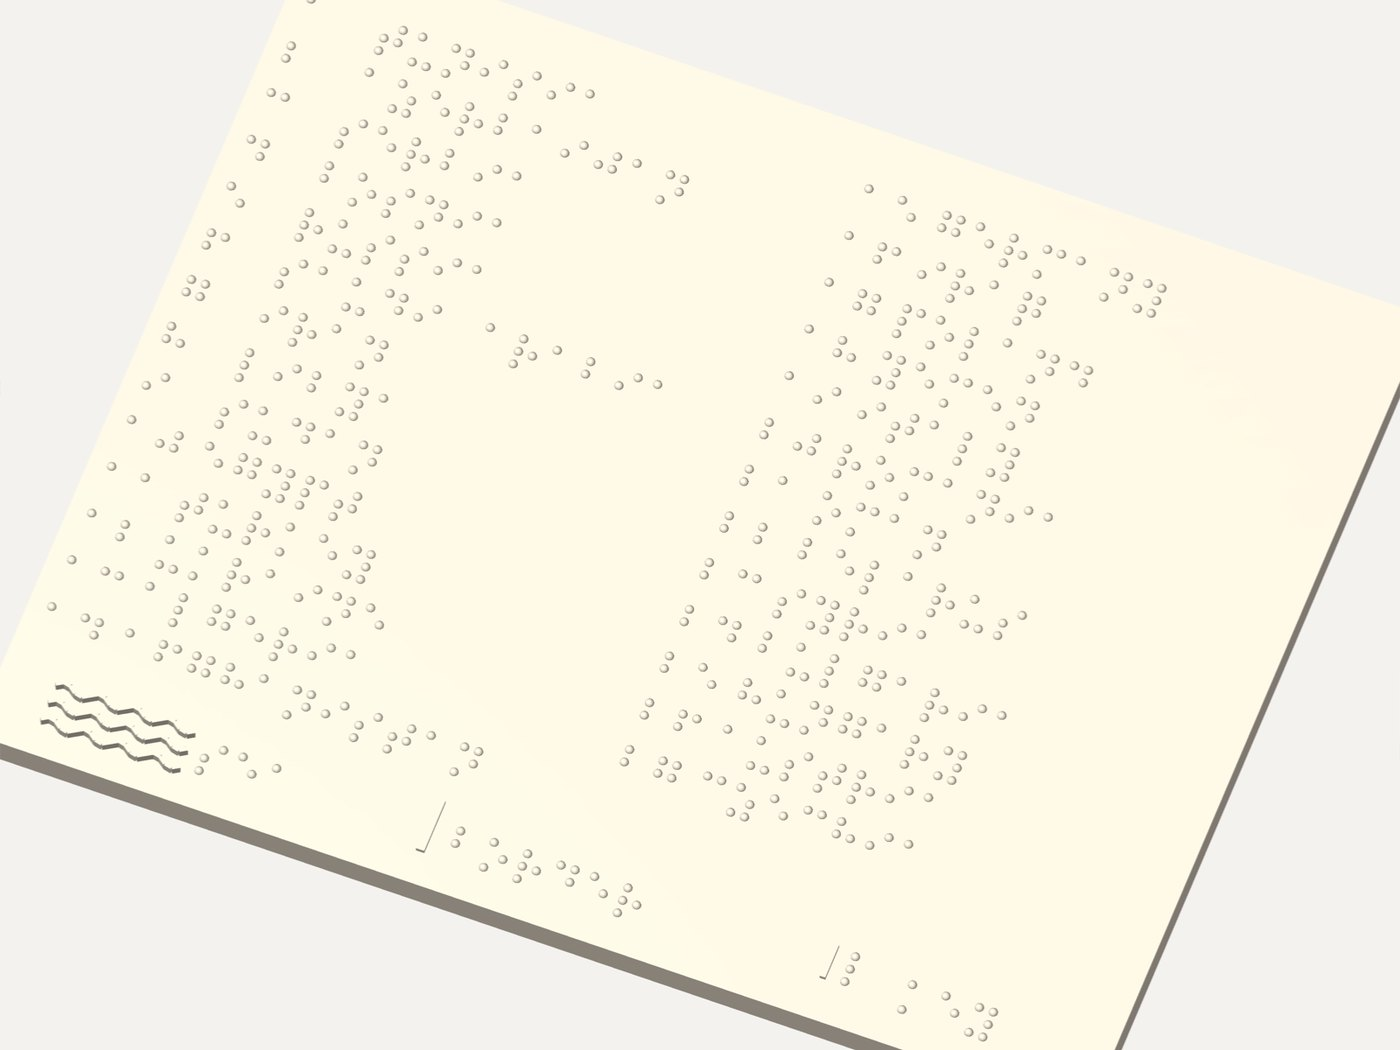
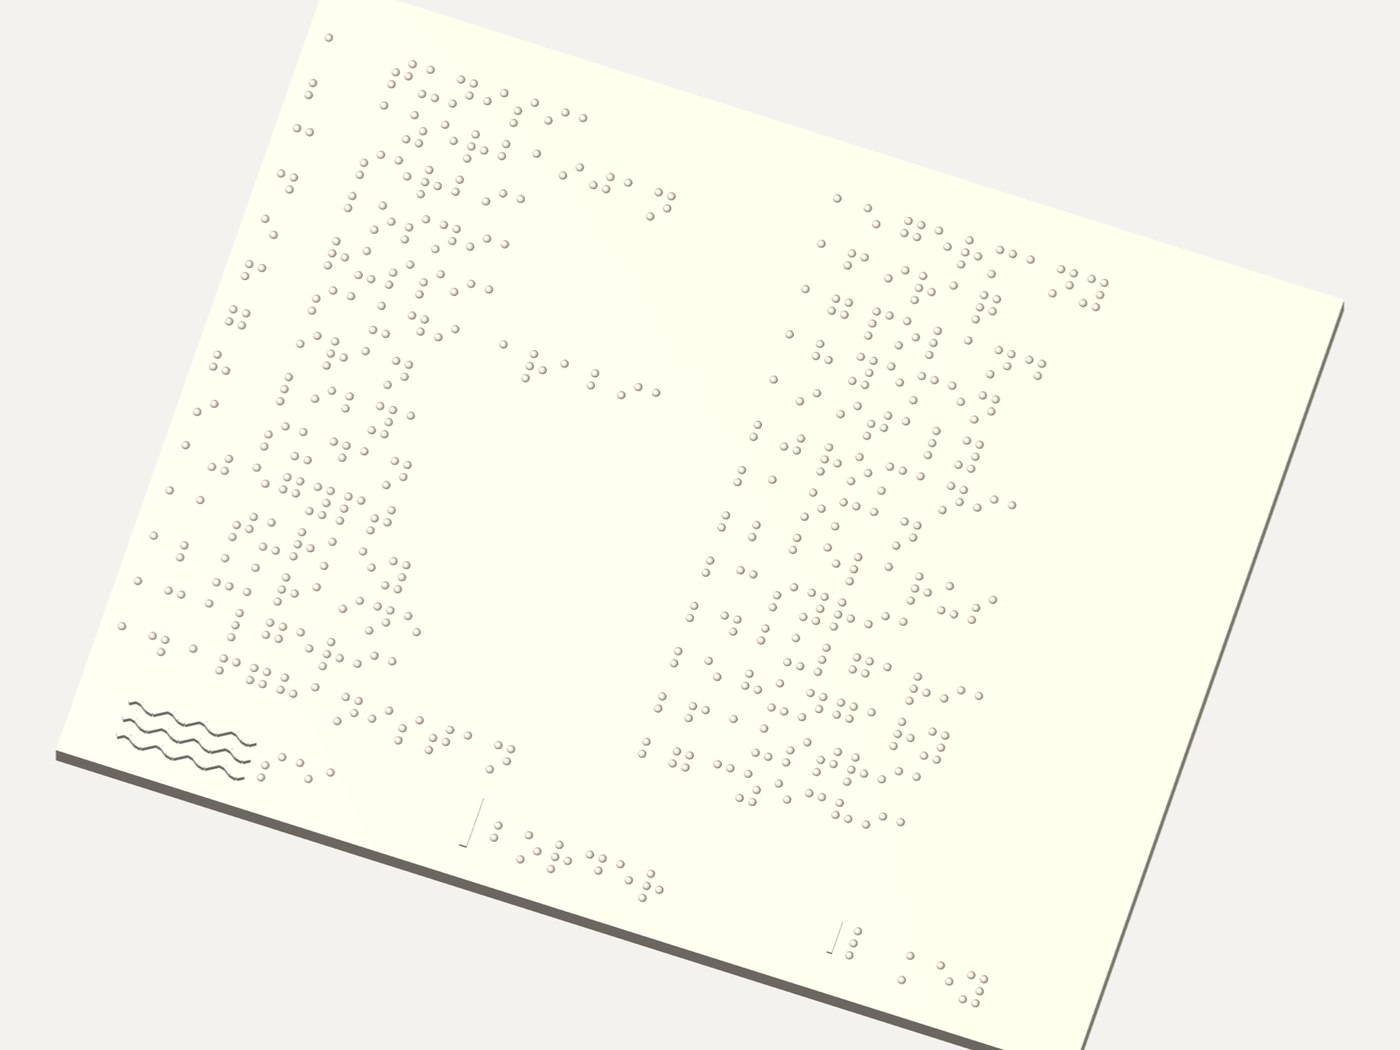
Make the current-files evidence legible and reproducible
The pair that carries the whole "photographs are the first print, renders are
the files now" argument was the weakest thing on the page: the render was shot
too far out for a braille label to read as braille. Re-framed it at the scale
where the anchor ridge and the domed dots are visible.

- Replace the dovetail render with the braille alphabet card. The joint shot
  read as two blank slabs whatever the camera; the alphabet card is a real
  product piece and it is what the two of them actually learn from. The tile
  size moved into the assembly row of the table so nothing is lost.
- Add core/render_site_assets.py: every camera the site publishes, in the repo,
  so the renders can be rebuilt after a geometry change instead of being
  re-derived by hand.
- Give both price cards a mailto CTA at the point of decision, pinned to a
  common baseline. Ready-made asks braille language / copies / destination,
  custom keeps the three-question intake.
- Footer states no cookies, no tracking, no third-party requests, which is
  literally true and worth saying to an institutional buyer.
- Pure-CSS scroll shadow on the feature table: below 28rem it scrolls sideways
  and a hard-cut column with no scrollbar reads as broken.

Checked: no em dashes, headings without level skips, alt text on every image,
contrast at or above 4.5:1 for every text pair in both themes, both language
versions element-for-element identical, no page-level horizontal scroll at
320 px.

diff --git a/site/sr/index.html b/site/sr/index.html
@@ -189,7 +189,7 @@
                alt="Prikaz istog dela karte iz današnjih fajlova: svaka država sada nosi oznaku na Brajevom pismu, kratak uspravan sidreni greben pa ćelije sa kupolastim tačkama, umesto štampane cifre.">
           <figcaption>
             <span class="tag tag-now">Današnji fajlovi</span>
-            Iste države danas: sidreni greben, pa broj na Brajevom pismu.
+            Isti deo karte danas: sidreni greben, pa broj na Brajevom pismu.
           </figcaption>
         </figure>
       </div>
@@ -229,7 +229,7 @@
             <tr><td>Mora</td><td>Rebrasti talasi visine 2 mm, jasno različiti od ravnog kopna</td></tr>
             <tr><td>Oznake država</td><td>Brojevi na Brajevom pismu, povezani sa posebnom karticom legende</td></tr>
             <tr><td>Orijentacija</td><td>Sidreni greben levo od svake oznake označava njenu levu ivicu i redove</td></tr>
-            <tr><td>Sklapanje</td><td>Četiri ploče sa spojem lastin rep: spuštaju se odozgo i ne mogu da iskliznu</td></tr>
+            <tr><td>Sklapanje</td><td>Četiri ploče 20 × 16 cm, spoj lastin rep: spuštaju se odozgo i ne mogu da iskliznu</td></tr>
           </tbody>
         </table>
       </div>
@@ -246,9 +246,9 @@
           <figcaption>Četiri stepenika terena, svaki tačno pet odštampanih slojeva visok, između dva rebrasta mora.</figcaption>
         </figure>
         <figure>
-          <img src="/assets/render_joint.jpg" width="1400" height="1050" loading="lazy"
-               alt="Prikaz dve ploče karte gledane odozdo, sa proširenim jezičkom u obliku lastinog repa na jednoj i odgovarajućim ležištem urezanim u ivicu druge.">
-          <figcaption>Spoj, gledan odozdo: spustite ploču na susednu i ne može da isklizne.</figcaption>
+          <img src="/assets/render_alphabet.jpg" width="1400" height="1050" loading="lazy"
+               alt="Prikaz kartice azbuke na Brajevom pismu: slova od A do Z u kolonama, svako izdignuto štampano slovo praćeno istim slovom kao Brajeva ćelija sa kupolastim tačkama.">
+          <figcaption>Kartica azbuke nosi svako slovo dvaput, štampano i na Brajevom pismu, da videći nastavnik i slep čitalac rade sa iste kartice.</figcaption>
         </figure>
         <figure>
           <img src="/assets/render_legend.jpg" width="1400" height="1050" loading="lazy"
@@ -346,6 +346,7 @@
             kartica azbuke na Brajevom pismu, odštampano i poslato. Dostupno na engleskom ili
             srpskom Brajevom pismu. Poštarina se obračunava posebno.
           </p>
+          <p class="price-cta"><a href="mailto:glebmaksimov@worldbytouch.com?subject=Gotov%20komplet%20taktilne%20karte&amp;body=1.%20Englesko%20ili%20srpsko%20Brajevo%20pismo%3F%0A%0A2.%20Koliko%20primeraka%20vam%20treba%3F%0A%0A3.%20U%20koju%20zemlju%20se%20%C5%A1alje%3F%0A%0A">Naručite gotov komplet</a></p>
         </div>
         <div class="price feature">
           <span class="amount">Cena po projektu</span>
@@ -355,6 +356,7 @@
             površine, nivoa detalja i broja primeraka. Recite šta vam treba i vraća se fiksan
             iznos, sa rokom.
           </p>
+          <p class="price-cta"><a href="mailto:glebmaksimov@worldbytouch.com?subject=Upit%20za%20taktilnu%20kartu&amp;body=1.%20Koji%20region%2C%20grad%20ili%20oblast%20karta%20treba%20da%20obuhvati%3F%0A%0A2.%20Ko%20%C4%87e%20je%20koristiti%20%E2%80%93%20osoba%2C%20%C5%A1kola%2C%20muzej%3F%0A%0A3.%20Koliko%20primeraka%20vam%20treba%3F%0A%0A">Zatražite ponudu</a></p>
         </div>
       </div>
     </div>
@@ -472,6 +474,7 @@
       <li><a href="/" lang="en" hreflang="en">English</a></li>
     </ul>
     <p>Taktilne karte projektuje i štampa Gleb Maksimov. Napravljeno sa slepim čitaocem i testirano sa njim.</p>
+    <p class="fine">Bez kolačića, bez praćenja, ništa se ne učitava sa drugog servera.</p>
   </div>
 </footer>
 

diff --git a/site/index.html b/site/index.html
@@ -191,7 +191,7 @@
                alt="Render of the same corner of the map from the current files: each country now carries a braille number label, a short upright anchor ridge followed by braille cells of domed dots, instead of a printed digit.">
           <figcaption>
             <span class="tag tag-now">Current files</span>
-            The same countries today: an anchor ridge, then the number in braille.
+            The same corner of the map today: an anchor ridge, then the number in braille.
           </figcaption>
         </figure>
       </div>
@@ -230,7 +230,7 @@
             <tr><td>Seas</td><td>Ribbed waves 2 mm high, unmistakable against flat land</td></tr>
             <tr><td>Country labels</td><td>Braille numbers, keyed to a separate braille legend card</td></tr>
             <tr><td>Orientation</td><td>An anchor ridge left of every label marks its left edge and its rows</td></tr>
-            <tr><td>Assembly</td><td>Four tiles with dovetail joints: they drop in from above and cannot slide apart</td></tr>
+            <tr><td>Assembly</td><td>Four 20 × 16 cm tiles, dovetailed: they drop in from above and cannot slide apart</td></tr>
           </tbody>
         </table>
       </div>
@@ -348,6 +348,7 @@
             and the braille alphabet card, printed and shipped. Available in English or
             Serbian braille. Shipping quoted separately.
           </p>
+          <p class="price-cta"><a href="mailto:glebmaksimov@worldbytouch.com?subject=Ready-made%20tactile%20map%20set&amp;body=1.%20English%20or%20Serbian%20braille%3F%0A%0A2.%20How%20many%20copies%20do%20you%20need%3F%0A%0A3.%20Which%20country%20should%20it%20ship%20to%3F%0A%0A">Order the ready-made set</a></p>
         </div>
         <div class="price feature">
           <span class="amount">Quoted per project</span>
@@ -357,6 +358,7 @@
             area, the level of detail and the number of copies. Tell me what you need and a
             fixed figure comes back, with a timeline.
           </p>
+          <p class="price-cta"><a href="mailto:glebmaksimov@worldbytouch.com?subject=Tactile%20map%20enquiry&amp;body=1.%20Which%20region%2C%20city%20or%20area%20should%20the%20map%20cover%3F%0A%0A2.%20Who%20will%20use%20it%20%E2%80%93%20a%20person%2C%20a%20school%2C%20a%20museum%3F%0A%0A3.%20How%20many%20copies%20do%20you%20need%3F%0A%0A">Ask for a quote</a></p>
         </div>
       </div>
     </div>
@@ -475,6 +477,7 @@
       <li><a href="/sr/" lang="sr" hreflang="sr">Srpski</a></li>
     </ul>
     <p>Tactile maps designed and printed by Gleb Maximov. Made with, and tested by, a blind reader.</p>
+    <p class="fine">No cookies, no tracking, nothing loaded from another server.</p>
   </div>
 </footer>
 

diff --git a/site/style.css b/site/style.css
@@ -10,6 +10,7 @@
   --accent-hover: #0e3c2f;
   --accent-ink: #ffffff;
   --focus: #b8460e;
+  --scroll-shadow: rgba(29, 33, 36, .34);
   --shadow: 0 1px 2px rgba(29, 33, 36, .06), 0 8px 24px rgba(29, 33, 36, .08);
   --shadow-lg: 0 2px 4px rgba(29, 33, 36, .08), 0 18px 48px rgba(29, 33, 36, .16);
   --max: 68rem;
@@ -30,6 +31,7 @@
     --accent-hover: #8fe0c3;
     --accent-ink: #0c2019;
     --focus: #ffb26b;
+    --scroll-shadow: rgba(0, 0, 0, .72);
     --shadow: 0 1px 2px rgba(0, 0, 0, .4), 0 8px 24px rgba(0, 0, 0, .35);
     --shadow-lg: 0 2px 4px rgba(0, 0, 0, .5), 0 18px 48px rgba(0, 0, 0, .5);
   }
@@ -403,12 +405,28 @@ ol.steps span { font-family: var(--sans); color: var(--ink-soft); font-size: .98
 .price h3 { margin: .65rem 0 .75rem; font-size: 1.25rem; }
 .price p { font-family: var(--sans); font-size: .9875rem; line-height: 1.6; color: var(--ink-soft); }
 .price p:last-child { margin-bottom: 0; }
+/* margin-top:auto pins both cards' links to the same baseline, whatever the copy above */
+.price .price-cta { margin: auto 0 0; padding-top: 1.15rem; font-size: 1rem; font-weight: 650; }
 
 /* ---------- table ---------- */
 
+/* Below ~28rem the table scrolls sideways, and a cut-off column with no visible
+   scrollbar reads as broken. These four backgrounds are the classic pure-CSS
+   scroll shadow: the `local` covers ride with the content, the `scroll` shadows
+   stay put, so a shadow shows only on the edge that still has table behind it. */
 .table-scroll {
   overflow-x: auto; border-radius: 10px; border: 1px solid var(--line);
-  background: var(--surface); box-shadow: var(--shadow);
+  box-shadow: var(--shadow);
+  background-color: var(--surface);
+  background-image:
+    linear-gradient(to right, var(--surface) 40%, transparent),
+    linear-gradient(to left, var(--surface) 40%, transparent),
+    radial-gradient(farthest-side at 0 50%, var(--scroll-shadow), transparent),
+    radial-gradient(farthest-side at 100% 50%, var(--scroll-shadow), transparent);
+  background-position: 0 0, 100% 0, 0 0, 100% 0;
+  background-size: 2.5rem 100%, 2.5rem 100%, 1.1rem 100%, 1.1rem 100%;
+  background-repeat: no-repeat;
+  background-attachment: local, local, scroll, scroll;
 }
 .tactile { width: 100%; border-collapse: collapse; font-size: 1rem; min-width: 28rem; }
 .tactile th, .tactile td { text-align: left; padding: .85rem 1.15rem; border-bottom: 1px solid var(--line); }
@@ -448,3 +466,5 @@ footer.site ul {
   display: flex; flex-wrap: wrap; gap: 1.5rem;
 }
 footer.site p { max-width: 40em; margin: 0; }
+footer.site p + p { margin-top: .6rem; }
+.fine { font-size: .875rem; color: var(--slate); }

diff --git a/core/render_site_assets.py b/core/render_site_assets.py
@@ -1,0 +1,154 @@
+#!/usr/bin/env python3
+"""
+Build the render half of `site/assets/` from the current print-ready STLs.
+
+The site makes one claim over and over: the photographs are the FIRST PRINT, the
+renders are the files as they stand NOW. That only stays true if the renders are
+re-made whenever the geometry changes, so every camera the site uses lives here
+instead of in a throwaway script.
+
+    python core/render_site_assets.py [printready_dir] [site_assets_dir]
+
+Needs a display (X11) or vtk-osmesa; `xvfb-run -a` works headless.
+
+The photographs in `site/assets/` are NOT produced here. They are hand-picked
+crops of `data/photoes/` (gitignored, and two of them are pictures of people):
+
+    hands_map.jpg           photo_1_2026-07-21   hero, hands on the assembled map
+    reader.jpg              photo_2_2026-07-21   the friend reading it
+    set.jpg                 photo_8_2026-07-21   all six printed pieces
+    author.jpg              photo_13_2026-08-05  Gleb beside the wall-mounted map
+    first_print_numbers.jpg photo_12_2026-08-05  crop (235, 200)-(765, 597),
+                                                 the raised Arabic numerals
+"""
+import sys
+from pathlib import Path
+
+import numpy as np
+from PIL import Image
+
+import render_previews as R
+from constants import CARD_WIDTH_MM as CW, CARD_HEIGHT_MM as CH
+
+SHOT_SIZE = (1600, 1200)
+BG = (244, 242, 238)          # render_previews.BG, for the content-crop probe
+
+
+def _shot(meshes, center, direction, half_h, size=SHOT_SIZE):
+    """Orthographic frame: `half_h` IS the visible half-height in mm."""
+    p = R._plotter(size)
+    for m in meshes:
+        R._add(p, m)
+    R._light(p)
+    d = np.asarray(direction, float)
+    d /= np.linalg.norm(d)
+    c = np.asarray(center, float)
+    p.enable_parallel_projection()
+    p.camera.focal_point = tuple(c)
+    p.camera.position = tuple(c + d * 500.0)
+    p.camera.up = (0, 0, 1)
+    p.camera.parallel_scale = half_h
+    img = Image.fromarray(p.screenshot(return_img=True))
+    p.close()
+    return img
+
+
+def _content_box(im, tol=7):
+    a = np.asarray(im.convert("RGB")).astype(int)
+    ys, xs = np.where(np.abs(a - np.array(BG)).max(axis=2) > tol)
+    if len(xs) == 0:
+        return (0, 0, im.width, im.height)
+    return (xs.min(), ys.min(), xs.max() + 1, ys.max() + 1)
+
+
+def _frame_43(box, w, h, pad=0.04):
+    """Smallest 4:3 window inside (w, h) that holds `box` plus `pad` margin."""
+    x0, y0, x1, y1 = box
+    pw, ph = (x1 - x0) * pad, (y1 - y0) * pad
+    x0, y0, x1, y1 = x0 - pw, y0 - ph, x1 + pw, y1 + ph
+    cw, ch = max(x1 - x0, (y1 - y0) * 4 / 3), max(y1 - y0, (x1 - x0) * 3 / 4)
+    cw, ch = min(cw, w), min(ch, h)
+    cw, ch = min(cw, ch * 4 / 3), min(ch, cw * 3 / 4)
+    cx = min(max((x0 + x1) / 2, cw / 2), w - cw / 2)
+    cy = min(max((y0 + y1) / 2, ch / 2), h - ch / 2)
+    return tuple(round(v) for v in (cx - cw / 2, cy - ch / 2, cx + cw / 2, cy + ch / 2))
+
+
+def _save(im, dest, size, quality=86):
+    im.convert("RGB").resize(size, Image.LANCZOS).save(
+        dest, "JPEG", quality=quality, optimize=True, progressive=True)
+    print(f"  {dest.name:24s} {size[0]}x{size[1]}  {dest.stat().st_size // 1024} KB")
+
+
+def build(src, out, verbose=True):
+    src, out = Path(src), Path(out)
+    out.mkdir(parents=True, exist_ok=True)
+    parts = R.assembled(src)
+
+    def clipped(box):
+        ms = [m.clip_box(box, invert=False) for m in parts]
+        return [m for m in ms if m.n_points > 0]
+
+    # 1. render_labels.jpg — the right-hand half of the "first print vs current
+    #    files" pair. Central Europe and the Balkans, the same corner the
+    #    first-print photograph shows, at a scale where a braille number label
+    #    reads AS braille: anchor ridge, then cells of domed dots. The frame sits
+    #    wholly inside the plate (cy below 253 keeps the north edge out of shot).
+    _save(_shot(clipped((20, 240, 175, 320, -7, 8)),
+                (120, 250, 1.0), (0.06, -0.38, 0.92), 52.0),
+          out / "render_labels.jpg", (1200, 900))
+
+    # 2. render_terrain.jpg — Black Sea, Caucasus, Caspian: stepped plateaus
+    #    between two ribbed seas, at a raking angle so every step casts an edge.
+    _save(_shot(clipped((188, 292, 188, 266, -7, 8)),
+                (240, 227, 1.0), (0.12, -0.58, 0.81), 43.0),
+          out / "render_terrain.jpg", (1400, 1050))
+
+    # 3. render_macro.jpg — one label at dome scale, the evidence behind "domes,
+    #    not points". The label is found from the geometry (see
+    #    render_previews.find_braille_cluster); hand-picked coordinates missed.
+    for idx in (3, 1, 2, 4):
+        card = R.load(src, f"card_{idx}.stl")
+        spot = R.find_braille_cluster(card)
+        if spot is not None:
+            break
+    if spot is None:
+        raise SystemExit("no braille cluster found — did the label geometry change?")
+    cx, cy = spot
+    if verbose:
+        print(f"  (braille label found at {cx:.0f}, {cy:.0f} mm)")
+    region = card.clip_box((cx - 14, cx + 14, cy - 11, cy + 11, -7, 8), invert=False)
+    macro = _shot([region], (cx, cy, 1.2), (0.22, -0.62, 0.75), 8.0)
+    _save(macro.crop((40, 285, 1180, 1140)), out / "render_macro.jpg", (1400, 1050))
+
+    # 4/5. the two reference cards, tilted just enough to shade the dots
+    for fname, stl in (("render_legend.jpg", "card_legend.stl"),
+                       ("render_alphabet.jpg", "card_alphabet.stl")):
+        im = _shot([R.load(src, stl)], (CW / 2, CH / 2, 0), (0.10, -0.30, 0.95), 98.0)
+        _save(im.crop(_frame_43(_content_box(im), im.width, im.height)),
+              out / fname, (1400, 1050), quality=87)
+
+    # 6. render_files.jpg — everything in the download, laid out in two rows
+    def eight():
+        names = ["card_1.stl", "card_2.stl", "card_3.stl", "card_4.stl",
+                 "card_legend.stl", "card_legend_sr.stl",
+                 "card_alphabet.stl", "card_alphabet_sr.stl"]
+        ms = []
+        for i, n in enumerate(names):
+            m = R.load(src, n)
+            m.translate(((i % 4) * (CW + 18), -(i // 4) * (CH + 18), 0), inplace=True)
+            ms.append(m)
+        return ms
+    im = _shot(eight(),
+               (3 * (CW + 18) / 2 + CW / 2, -(CH + 18) / 2 + CH / 2, 0),
+               (0.14, -0.46, 0.88), 335.0)
+    _save(im.crop(_frame_43(_content_box(im), im.width, im.height)),
+          out / "render_files.jpg", (1400, 1050))
+
+    if verbose:
+        print(f"-> 6 site renders in {out}/")
+
+
+if __name__ == "__main__":
+    build(sys.argv[1] if len(sys.argv) > 1 else "data/output/printready",
+          sys.argv[2] if len(sys.argv) > 2 else "site/assets")

diff --git a/SITE.md b/SITE.md
@@ -7,7 +7,7 @@ site/index.html      English
 site/sr/index.html   Serbian (Gajica latin)
 site/style.css       shared, light + dark
 site/favicon.svg
-site/assets/         photos and renders, built from data/ by core/render_previews.py
+site/assets/         photos (hand-picked crops) and renders (core/render_site_assets.py)
 content/             source material for the copy, not published
 ```
 
@@ -42,9 +42,16 @@ python3 -m http.server 8080 --directory site
   capital-city bumps. Every figure is marked with a `First print` or `Current files` tag.
   Keep that distinction: it is what makes the page credible. Re-tag or re-shoot whenever
   either side changes.
-- Renders come from `blind_map/core/render_previews.py` run against the current
-  `data/output/printready/*.stl`. Re-render after any geometry change, or the site starts
-  describing files that no longer exist.
+- Renders come from `core/render_site_assets.py`, run against the current
+  `data/output/printready/*.stl`:
+
+  ```bash
+  xvfb-run -a .venv/bin/python core/render_site_assets.py
+  ```
+
+  Every camera the site uses lives in that script. Re-render after any geometry change, or
+  the page starts describing files that no longer exist. The photographs are not produced
+  by it; their sources and crops are listed in its docstring.
 - The `27 countries labelled in braille` figure comes from the build log of
   `create_country_labels_mesh`. Re-check it after changing the map bounds, the country table
   or the label clearance ladder.
@@ -52,11 +59,17 @@ python3 -m http.server 8080 --directory site
   element-for-element the same; keep it that way so a change in one is easy to mirror.
 - Short dashes only (`–`). No em dashes anywhere, including `<title>`, Open Graph tags and the
   text inside the `mailto:` links.
-- The hero video goes into the `.video-slot` block on both pages. Keep the captions track and
-  print a text transcript next to the player: this site is read by the people it is about.
-- Both `mailto:` links carry a pre-filled three-question intake. If you change the questions,
-  change them in both languages.
+- The video has not been shot. Its place is marked by the `VIDEO SLOT` comment after the
+  gallery in both pages, and `.video-slot` in the stylesheet is kept for it. When the film
+  exists, it goes there with a captions track and the full transcript printed beside the
+  player: part of this audience cannot see the picture and part cannot hear the sound.
+- Four `mailto:` links, two intakes, both three questions: the hero button, the closing band
+  and the custom price card ask region / who reads it / how many copies; the ready-made price
+  card asks braille language / how many copies / where it ships. Change them in both
+  languages at once.
 - The `From €150` figure is the only published price. Custom work stays quote-only.
+- The footer claims no cookies, no tracking and nothing loaded from another server. Keep it
+  literally true: no analytics, no hosted fonts, no CDN, no embeds.
 - Accessibility is part of the product claim here: semantic headings with no skipped levels,
   alt text that describes what is in the picture, visible focus rings, contrast at or above
   4.5:1 in both themes, keyboard order. Test with a screen reader before shipping changes.

diff --git a/README.md b/README.md
@@ -125,8 +125,9 @@ blind_map/
 ├── core/
 │   ├── config.py              # Map region (bounding box)
 │   ├── constants.py           # All tactile/physical parameters
-│   ├── generate.py            # Mesh building blocks: terrain, water, capitals,
-│   │                          #   numbers, braille, legend
+│   ├── generate.py            # Mesh building blocks: terrain, water, borders,
+│   │                          #   braille number labels, legend cards
+│   ├── countries.py           # ISO3 -> country name table (EN/SR) for the labels
 │   ├── build_all.py           # ENTRY POINT: full print-ready build
 │   ├── walls_buffer.py        # Border ridges (buffer + manifold extrude)
 │   ├── split_cards.py         # Boolean split into 4 puzzle cards
@@ -137,6 +138,8 @@ blind_map/
 │   ├── serbian_braille.py     # Serbian Latin (Gajica) braille tables
 │   ├── serbian_legend.py      # Serbian legend card
 │   ├── mesh_diagnostics.py    # Print-readiness verification
+│   ├── render_previews.py     # Preview renders of the print-ready STLs
+│   ├── render_site_assets.py  # The renders published on worldbytouch.com
 │   └── prepare_data/          # Data download & merge scripts
 ├── data/                      # Not in repo (too large)
 │   ├── input/                 # ETOPO1 elevation grid
